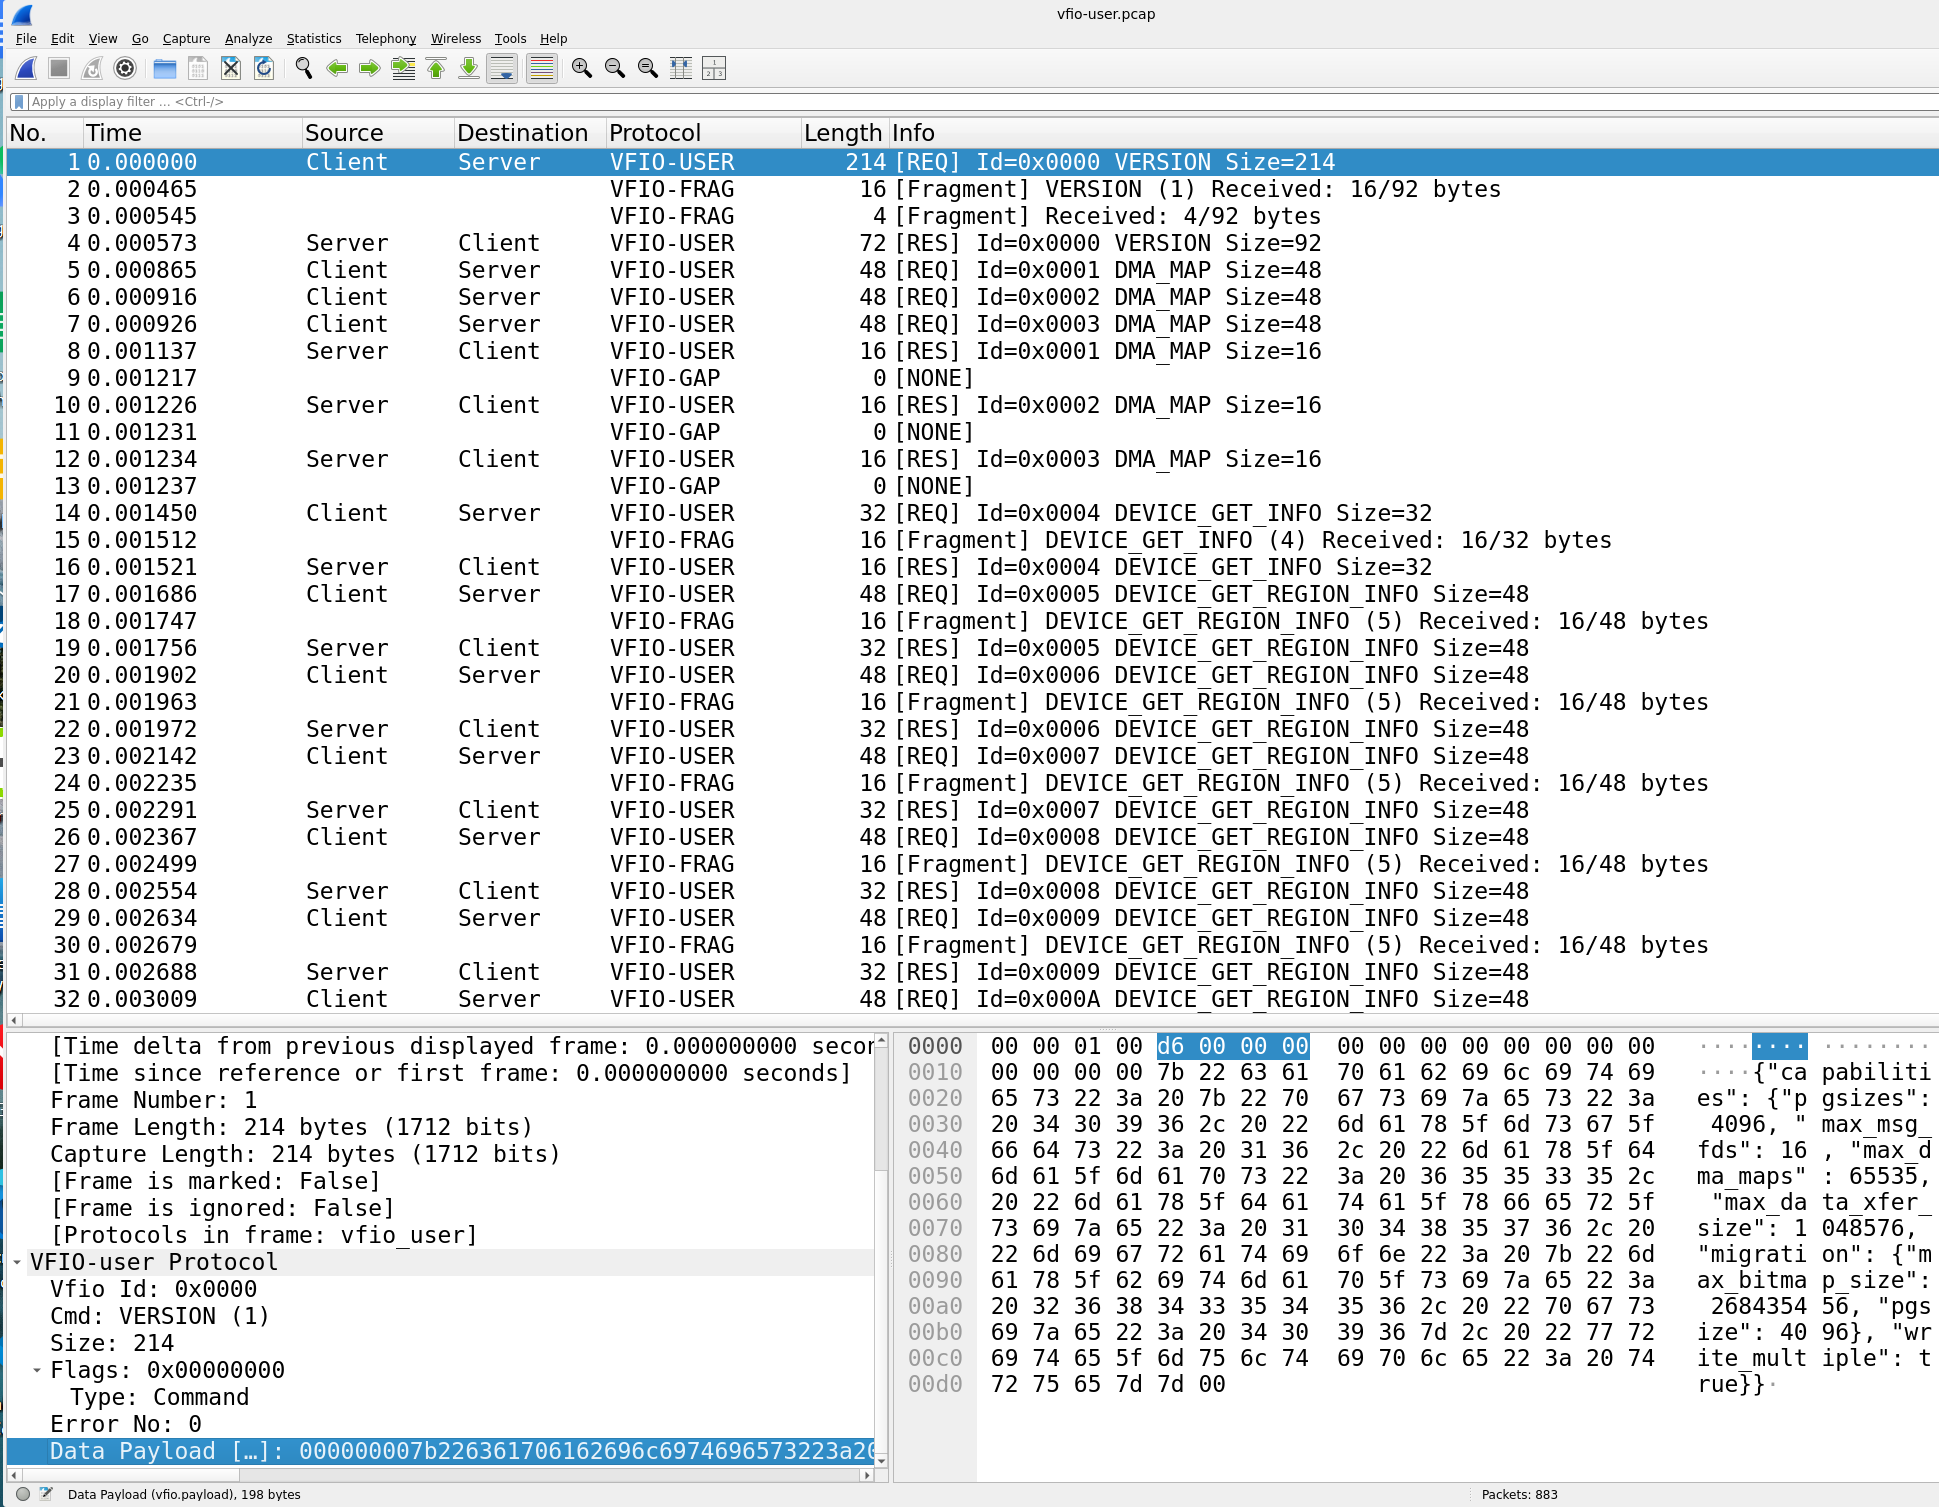
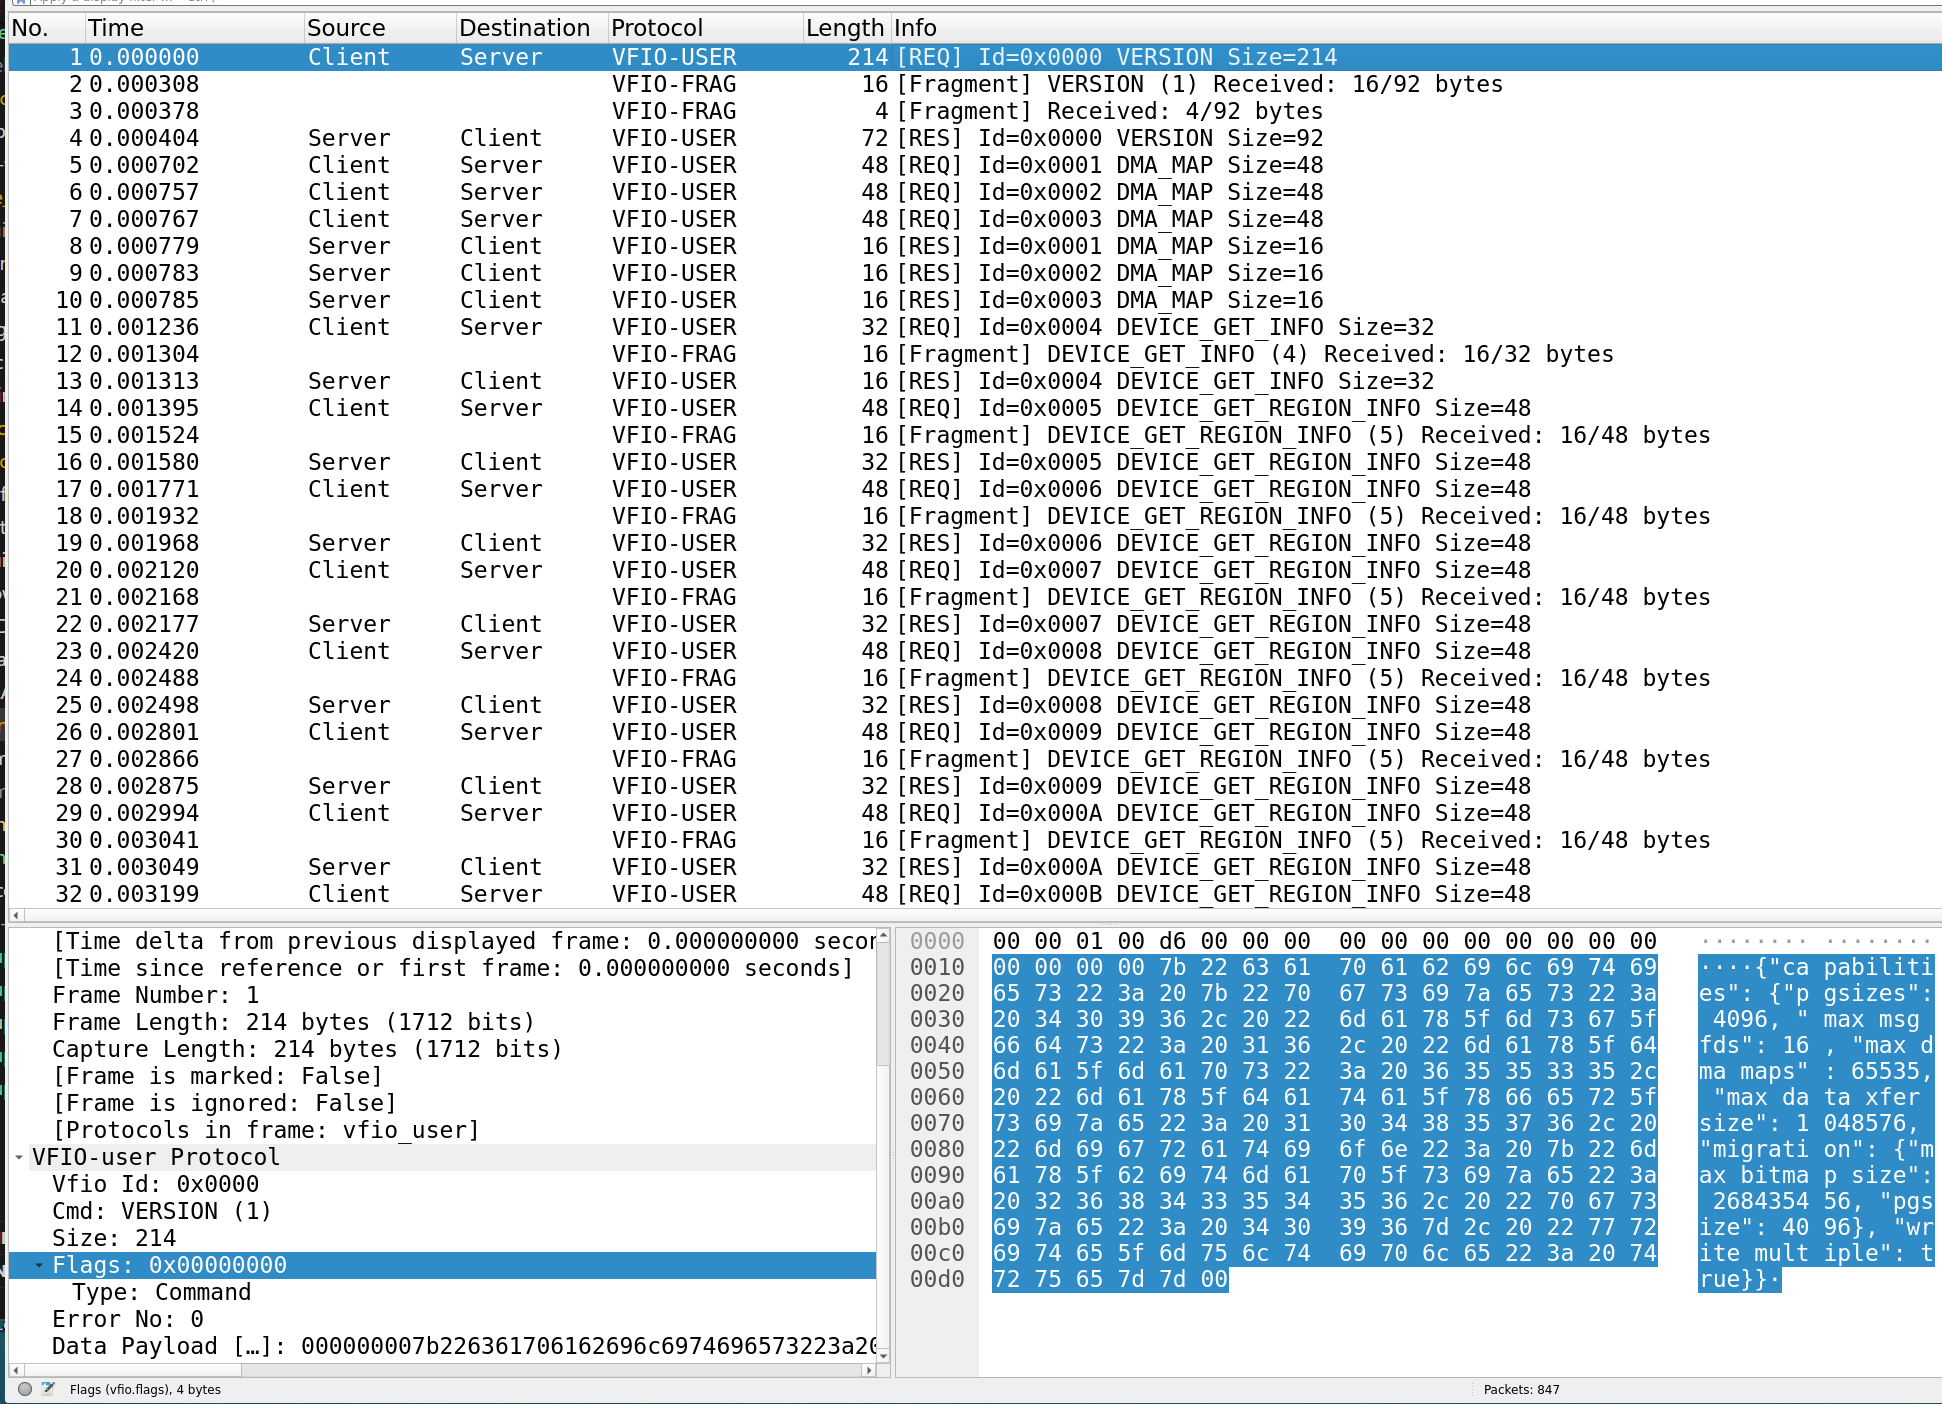
sockdump.py: skip zero-length segments in eBPF loop

diff --git a/tools/net/sockdump.py b/tools/net/sockdump.py
@@ -147,6 +147,10 @@ int probe_unix_socket_sendmsg(struct pt_regs *ctx,
         if (i >= iter->nr_segs)
             break;
 
+        if (iov->iov_len == 0) {
+            iov++;
+            continue;
+        }
         packet->len = iov->iov_len;
         packet->flags = 0;
 

diff --git a/README.md b/README.md
@@ -133,6 +133,18 @@ To build PCIe co-simulation do
 ```
 this outputs target executable to `/path/to/your/local/PcieCosim/build/pcie_sim`
 
+#### 3.1 PCIe Co-simulation Build Configuration settings
+
+The default co-simulation build options can be modified in `/path/to/your/local/PcieCosim/Makefile`:
+
+```text
+    LOG_LEVEL         = 40 (default), where SW Log Levels are: 0=NONE, 10=CRITICAL, 20=ERROR, 30=WARNING, 40=INFO, 50=DEBUG
+    ENABLE_SW_LOGS    = 1  (default), where 0 disables SW logging
+    ENABLE_HW_LOGS    = 1  (default), where 0 disables HW logging in RTL PCIe Endpoint blocks
+    ENABLE_PKT_LOGS   = 0  (default), where 1 enables internal Soft-TLP packet logging  
+    ENABLE_WAIT_LIMIT = 1  (default), where 1 enables a timeout limit for PCIe Sim communication channel establishment
+```
+
 ### 4. Run
 
 Execute the automation wrapper to start PCIe co-simulation with QEMU, bridge daemon, and RTL PCIe AXI RAM endpoint simulation:
@@ -145,12 +157,20 @@ To run co-simulation with Fedora or Ubuntu distribution do
 ```text
     /path/to/your/local/PcieCosim/run_pcie_agent.py --distro fedora|ubuntu
 ```
+#### 4.1 Run Agent Configuration settings
+
+You can configure the following variables in `run_pcie_agent.py`:
+
+- `enableAutomatedTest`: Enables or disables the automated verification test suite (True/False).
+- `testMatrix`: Selects the specific test cases to execute (default: `[1, 2, 3, 4]`).
+- `enableVerbose`: Enables or disables verbose formatting for internal `libvfio-user` logs (True/False).
+- `enableSniffer`: Enables or disables the eBPF-based VFIO-User packet sniffer (True/False).
 
 ### 5. Other
 
 ### 5.1 Optional
 
-### 5.1.1 GTKWave
+#### 5.1.1 GTKWave
 
 To visualize PCIe Simulation RTL signalling install GTKWave:
 ```text
@@ -160,7 +180,7 @@ You can see the simulation traces by running `make wave` or `gtkwave sim_wavefor
 
 <img src="images/gtkwave-sim-waveform-trace.png" alt="App Dashboard" width="75%">
 
-### 5.1.2 Wireshark Packet Sniffer
+#### 5.1.2 Wireshark Packet Sniffer
 
 To visualize vfio-user message exchange install Wireshark and configure a packet sniffer to capture VFIO-User traffic over the UNIX Domain Socket (UDS) channel between QEMU and the PCIe Co-simulation Bridge:
 ```text
@@ -169,7 +189,11 @@ To visualize vfio-user message exchange install Wireshark and configure a packet
     sudo chmod +x /usr/bin/dumpcap
     newgrp wireshark
 ```
-The `run_pcie_agent.py` automation script uses the `sockdump.py` to capture VFIO-User traffic. The Wireshark dissector for the VFIO-User protocol is named `vfio_user.lua`. To install it, copy the dissector file to your local Wireshark plugins directory:
+The `run_pcie_agent.py` automation script uses the `sockdump.py` to capture VFIO-User traffic. The `sockdump.py` script depends on the Extended Berkeley Packet Filter (eBPF) packages installed:
+```text
+    sudo apt install python3-bpfcc bpfcc-tools
+```
+The Wireshark dissector for the VFIO-User protocol is named `vfio_user.lua`. To install it, copy the dissector file to your local Wireshark plugins directory:
 ```text
     mkdir -p ~/.config/wireshark/plugins
     cp /path/to/your/local/PcieCosim/tools/net/vfio_user.lua ~/.config/wireshark/plugins/vfio_user.lua
@@ -195,3 +219,15 @@ If you enable the packet sniffer in `run_pcie_agent.py` by setting `enableSniffe
 <img src="images/wireshark_vfio_user_capture.png" alt="App Dashboard" width="50%">
 <img src="images/wireshark_vfio_user_irq_set_req_capture.png" alt="App Dashboard" width="50%">
 <img src="images/wireshark_vfio_user_irq_set_rsp_capture.png" alt="App Dashboard" width="50%">
+
+### 5.2 Fedora or Ubuntu Linux Distribution
+
+Fedora and Ubuntu cloud images do not have a default password and lock the root account by default for security. You need to run the following scripts to set a user password for the default user name:
+```text
+    /path/to/your/local/PcieCosim/third_party/os/images/linux/setup_fedora_password.sh
+    /path/to/your/local/PcieCosim/third_party/os/images/linux/setup_ubuntu_password.sh
+```
+If you download/update an indvidual Linux Distribution image you can set a symbolic link for it with the `update_links_only.py` script:
+```text
+    /path/to/your/local/PcieCosim/third_party/os/images/linux/update_links_only.py
+```